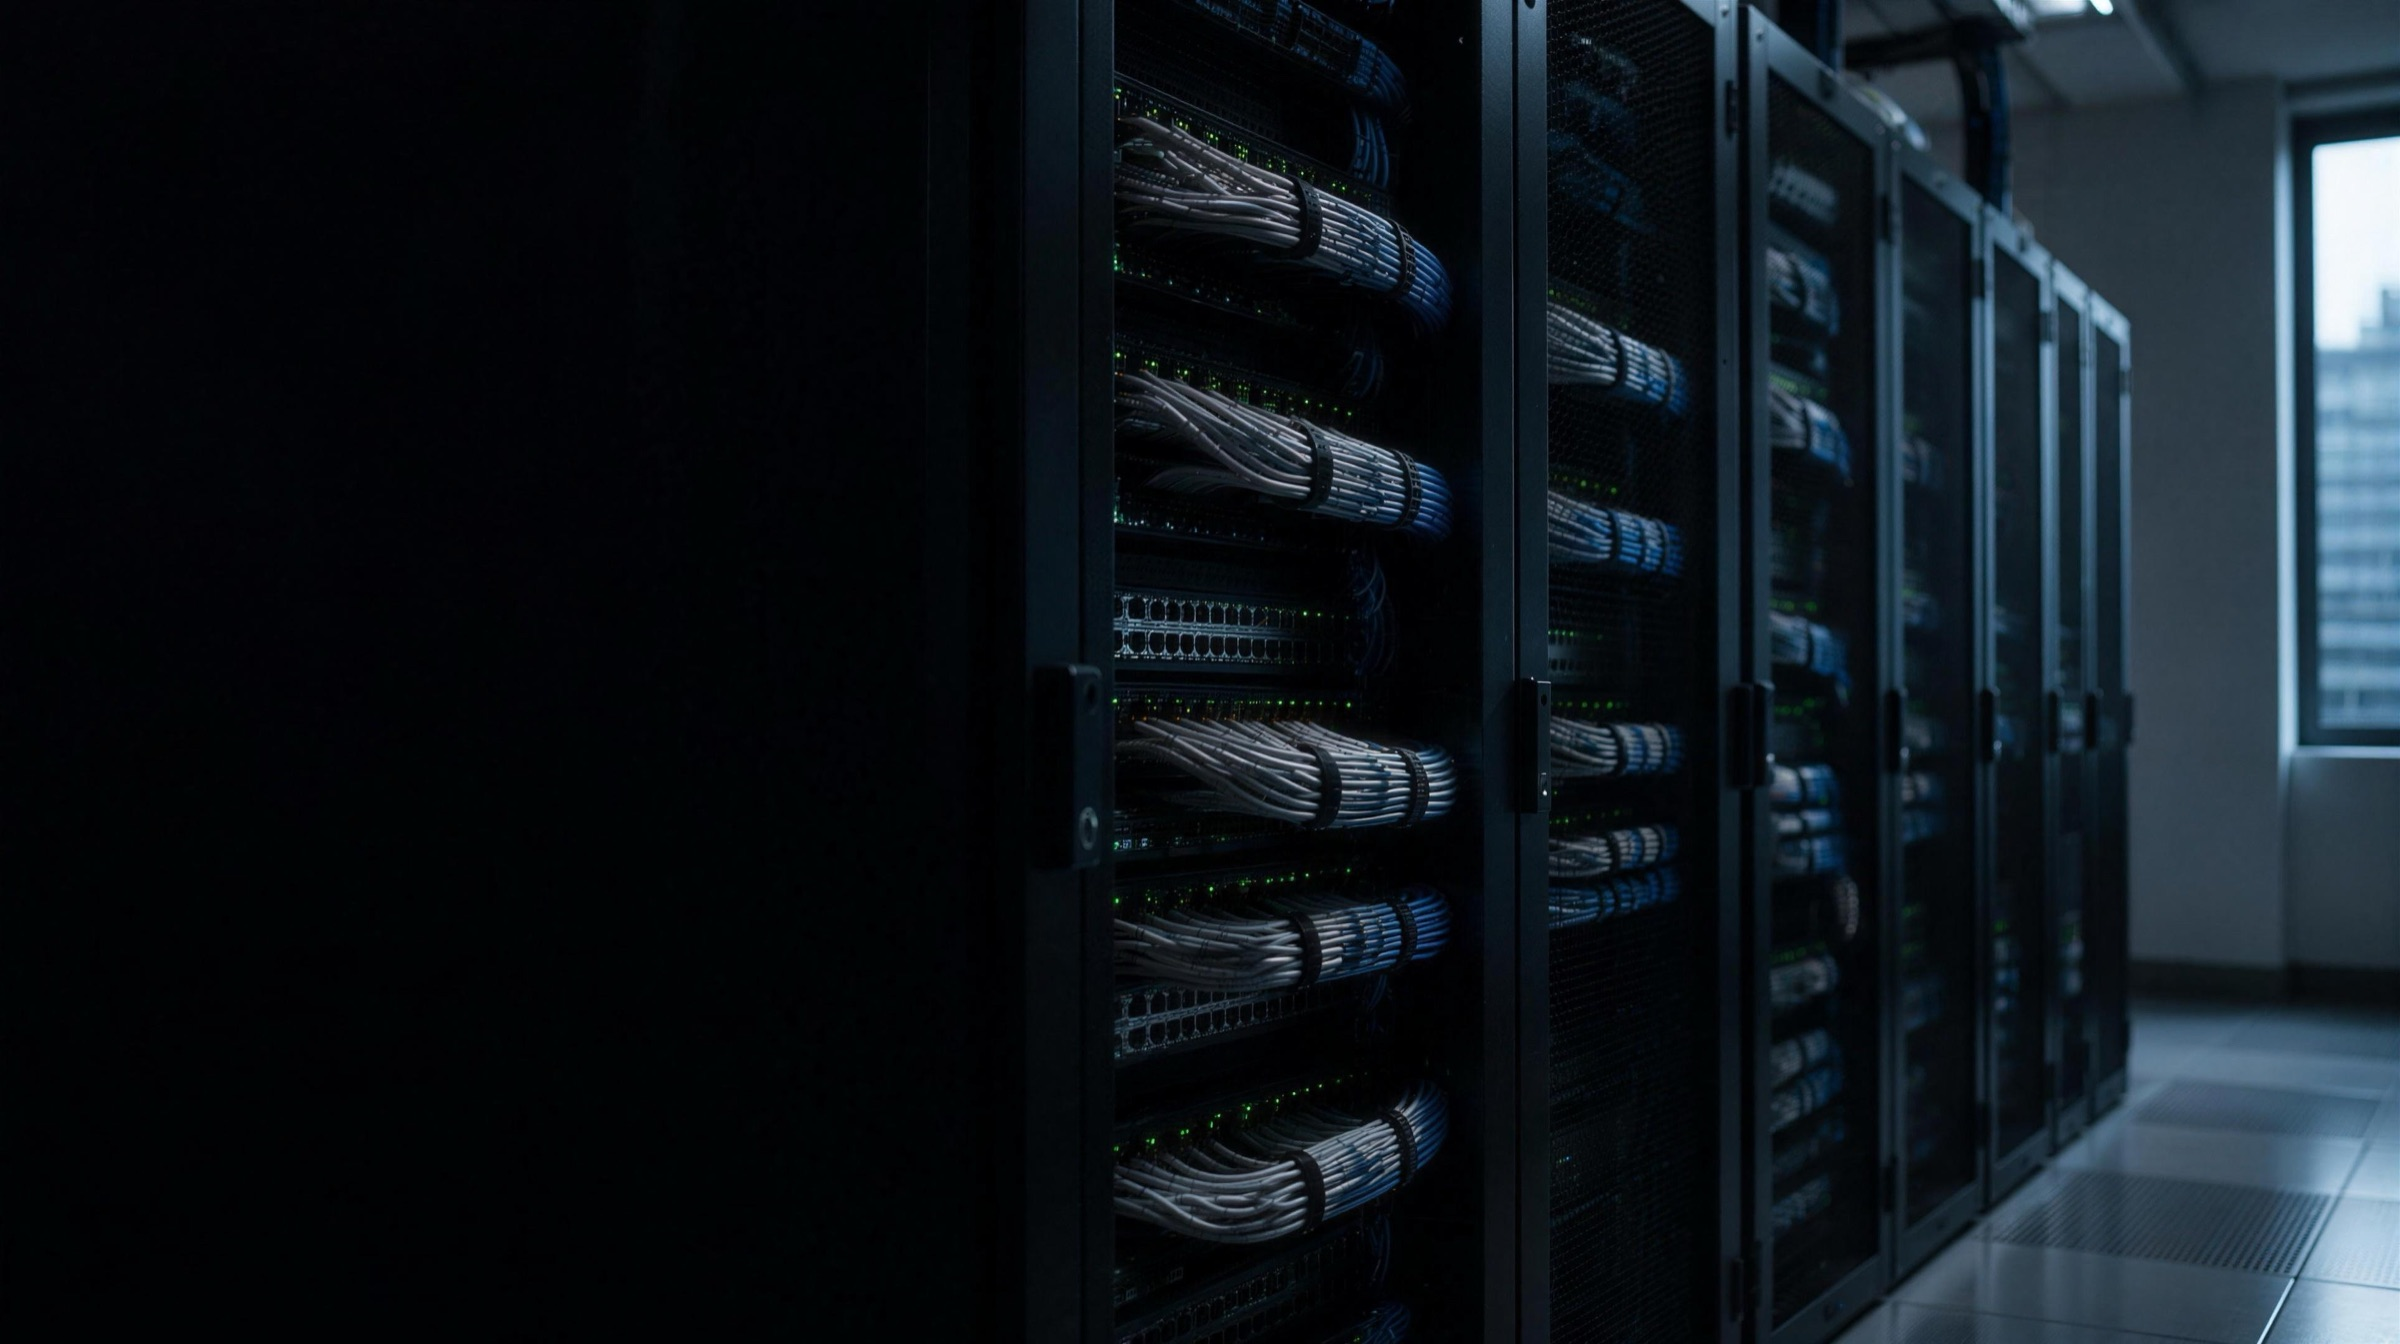
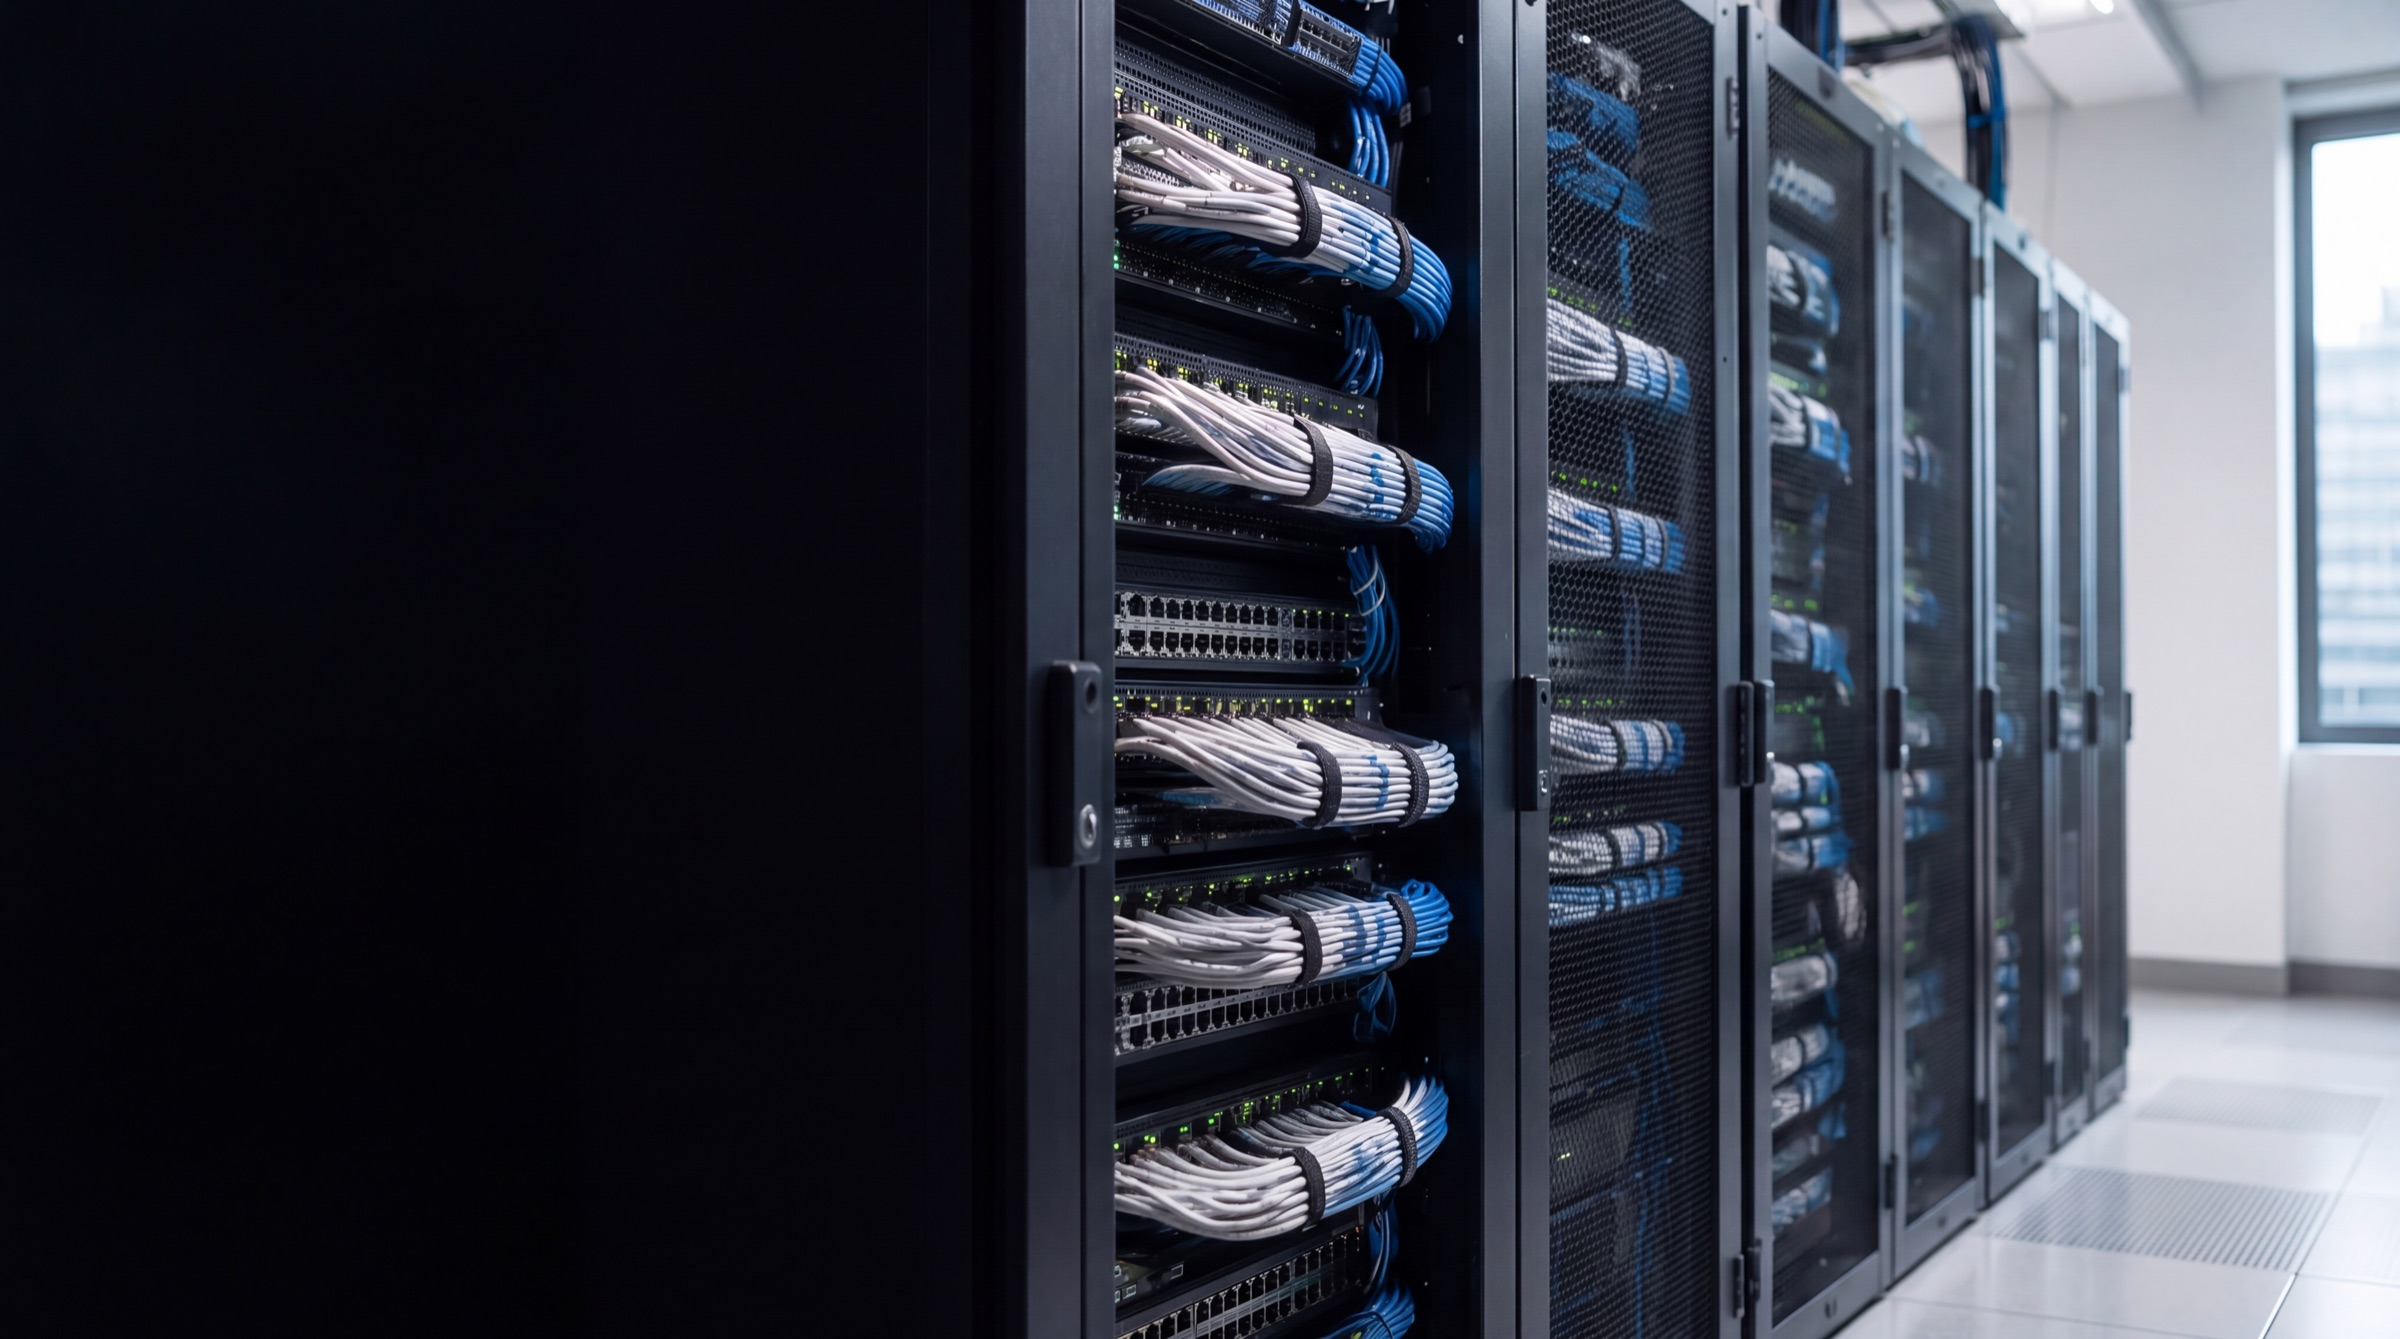
히어로 이미지를 Relight(밝기 80) 버전으로 교체
- 사용자가 Higgsfield UI에서 Relight로 밝힌 결과물 적용 (2400px JPEG)
- 루트 CSS의 밝기 필터 제거, v2-photo 실사 히어로는 전용 필터 유지
- CSS 캐시 버전 v=6

diff --git a/v2-photo/index.html b/v2-photo/index.html
@@ -8,7 +8,8 @@
 	<!-- [임시] og:image, favicon: 클라이언트 로고 수신 후 추가 -->
 	<link rel="preconnect" href="https://cdn.jsdelivr.net" crossorigin>
 	<link rel="stylesheet" href="https://cdn.jsdelivr.net/gh/orioncactus/pretendard@v1.3.9/dist/web/variable/pretendardvariable-dynamic-subset.min.css">
-	<link rel="stylesheet" href="../css/style.css?v=5">
+	<link rel="stylesheet" href="../css/style.css?v=6">
+	<style>.hero-photo { filter: brightness(1.3); } /* 실사 변형 전용 밝기 보정 */</style>
 </head>
 <body>
 <!--

diff --git a/index.html b/index.html
@@ -8,7 +8,7 @@
 	<!-- [임시] og:image, favicon: 클라이언트 로고 수신 후 추가 -->
 	<link rel="preconnect" href="https://cdn.jsdelivr.net" crossorigin>
 	<link rel="stylesheet" href="https://cdn.jsdelivr.net/gh/orioncactus/pretendard@v1.3.9/dist/web/variable/pretendardvariable-dynamic-subset.min.css">
-	<link rel="stylesheet" href="css/style.css?v=5">
+	<link rel="stylesheet" href="css/style.css?v=6">
 </head>
 <body>
 <!--

diff --git a/css/style.css b/css/style.css
@@ -143,7 +143,6 @@ p { text-wrap: pretty; }
 	width: 100%; height: 100%;
 	object-fit: cover;
 	object-position: center;
-	filter: brightness(1.35) contrast(.85); /* 기업 인상이 어두워지지 않도록 사진 밝기 보정. 값은 1.2~1.5 사이에서 조정 */
 }
 .hero::after {
 	content: "";
